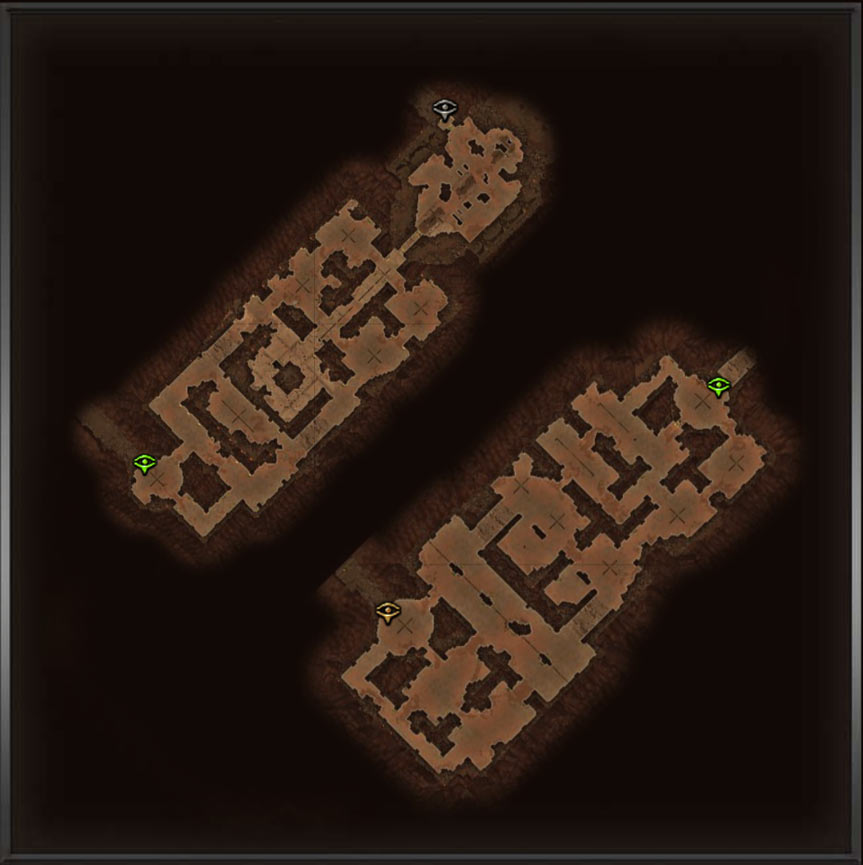
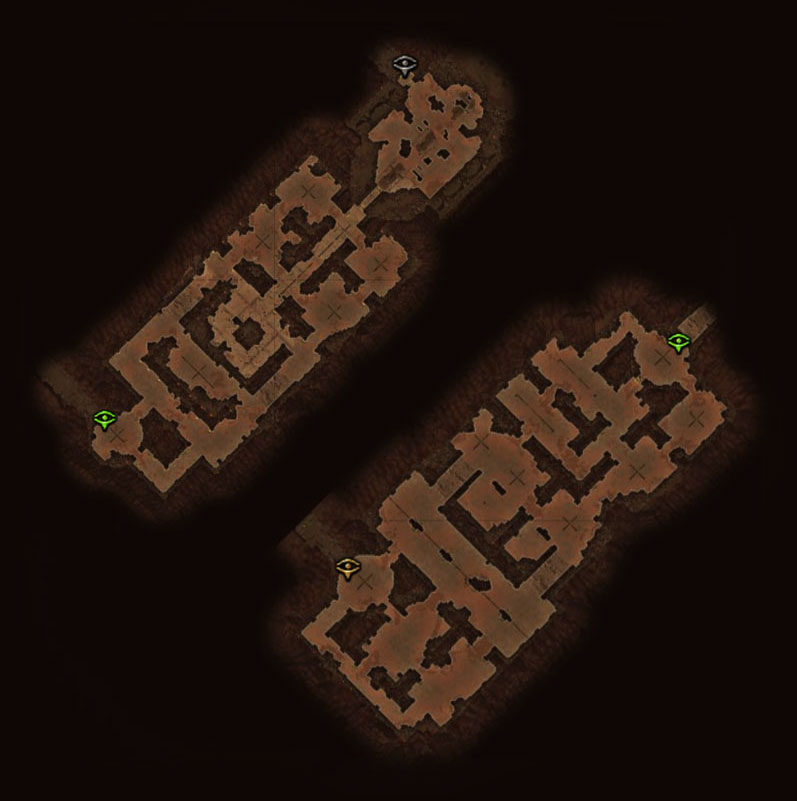
update region

Changed region(s): [[0.0, 0.0, 1.0, 1.0], [0.3614, 0.3433, 0.9335, 0.9363], [0.3614, 0.6242, 0.4216, 0.6866]]

diff --git a/js/ui.overlay.js b/js/ui.overlay.js
@@ -91,7 +91,7 @@ window.DUNGEON_OVERLAYS = [
 { id: 'crawling_nest',          map: 'korvan', img: 'crawling-nest.jpg?1.0',        left: 11.1969, top: 74.592, width: 9.3579, height: 8.7890 },
 { id: 'veiled_den',             map: 'korvan', img: 'veiled-den.jpg?1.0',           left: 0.4052,  top: 86.5082, width: 11.2750, height: 11.0184 },
 { id: 'forlorn_bastion',        map: 'korvan', img: 'forlorn-bastion.jpg?1.1',      left: 0.1843,  top: 58.1950, width: 13.8198, height: 13.5079 },
-{ id: 'sandblown_ruin',         map: 'korvan', img: 'sandblown-ruin.jpg?1.0',       left: 8.1843,  top: 44.6179, width: 12.5339, height: 12.36004 },
+{ id: 'sandblown_ruin',         map: 'korvan', img: 'sandblown-ruin.jpg?1.1',       left: 9.8843,  top: 45.6179, width: 11.5339, height: 11.36004 },
 { id: 'maw_of_enaht',           map: 'korvan', img: 'maw-of-enaht.jpg?1.1',         left: 29.9783, top: 59.4417, width: 20.1383, height: 9.5375 },
 { id: 'howling_chasm',          map: 'korvan', img: 'howling-chasm.jpg?1.2',        left: 50.6498, top: 56.5209, width: 14.0824, height: 16.7621 },
 { id: 'edge_reality_korv',      map: 'korvan', img: 'edge-reality.jpg?1.1',         left: 77.4415, top: 50.1895, width: 9.9928,  height: 9.7851 },

diff --git a/js/ui.region.js b/js/ui.region.js
@@ -287,7 +287,7 @@ window.REGION_MARKERS_MALMOUTH = [
 { id: 'tag_gdx2_map_raised_temple_a', tag: 'tagGDX2MapRaisedTemple', xp: 47.54, yp: 12.87, overlayPoly: [[52.5,15.2],[49.7,15.9],[49.5,15.1],[49.5,14.6],[50.1,14.4],[49.7,13.3],[48.9,13.4],[48.5,14.3],[47.7,14.6],[47,14.3],[46.5,13.5],[46.6,12.8],[46.9,12.3],[47.7,11.9],[49.4,11.8],[50,12.1],[50.8,12.9],[51,13.9],[51.4,14.1],[52.2,14.4],[52.3,14.8]] },
 { id: 'tag_gdx2_map_raised_temple_b', tag: 'tagGDX2MapRaisedTemple', xp: 38.16, yp: 8.37, isDungeon: true },
 { id: 'tag_gdx1_ug_secret01', tag: 'tagGDX1UGSecret01', xp: 12.73, yp: 21.32, isDungeon: true },
-{ id: 'tag_gdx2_cairan_ruins01', tag: 'tagGDX2CairanRuins01', xp: 16.27, yp: 48.53, isDungeon: true },
+{ id: 'tag_gdx2_cairan_ruins01', tag: 'tagGDX2CairanRuins01', xp: 17.88, yp: 47.86, isDungeon: true },
 { id: 'tag_gdx2_bysmiel_eldritch', tag: 'tagGDX2BysmielEldritch', xp: 1.64, yp: 87.32, isDungeon: true },
 { id: 'tag_gdx2_beetle01', tag: 'tagGDX2Beetle01', xp: 12.32, yp: 75.46, isDungeon: true },
 { id: 'tag_gdx2_ruined_temple01_b', tag: 'tagGDX2RuinedTemple01', xp: 51.97, yp: 77.65, isDungeon: true },

diff --git a/index.html b/index.html
@@ -692,9 +692,9 @@
   <script src="js/ui.lang.js?v=3.74"></script>
   <script src="js/core.js?v=3.13"></script>
   <script src="js/ui.rift.js?v=4.2"></script>
-  <script src="js/ui.region.js?v=4.37"></script>
+  <script src="js/ui.region.js?v=4.38"></script>
 
-  <script src="js/ui.shrine.js?v=1.14"></script>
+  <script src="js/ui.shrine.js?v=1.15"></script>
 
   <script src="js/ui.navmarkers.js?v=1.25"></script>
   <script src="js/ui.map.base.js?v=1.58"></script>
@@ -712,7 +712,7 @@
 
   <script src="libs/pako.min.js"></script>
   <script src="js/ui.tools.js?v=3.1"></script>
-  <script src="js/ui.overlay.js?v=3.47"></script>
+  <script src="js/ui.overlay.js?v=3.48"></script>
   <script src="js/ui.dungeon.links.js?v=1.34"></script>
   <script src="js/ui.filter.js?v=3.03"></script>
   <script src="js/ui.search.js?v=1.25"></script>

diff --git a/js/ui.shrine.js b/js/ui.shrine.js
@@ -56,7 +56,7 @@
   ];
 
   window.SHRINE_MARKERS_KORVAN = [
-    { id: 'shrinetagGDX2CairanRuins01', regionTag: 'tagGDX2CairanRuins01', xp: 11.74, yp: 50.72, difficulty: 'normal' },
+    { id: 'shrinetagGDX2CairanRuins01', regionTag: 'tagGDX2CairanRuins01', xp: 12.76, yp: 51.09, difficulty: 'normal' },
     { id: 'shrinetagSplendorOfShatteredRealm', regionTag: 'tagSplendorOfShatteredRealm', xp: 15.75, yp: 97.47, difficulty: 'normal' },
     { id: 'shrinetagGDX2MapRuinedTemple01', regionTag: 'tagGDX2MapRuinedTemple01', xp: 54.86, yp: 83.70, difficulty: 'normal' },
     { id: 'shrinetagGDX2MapHiddenOasis', regionTag: 'tagGDX2MapHiddenOasis', xp: 33.76, yp: 71.72, difficulty: 'normal' },
